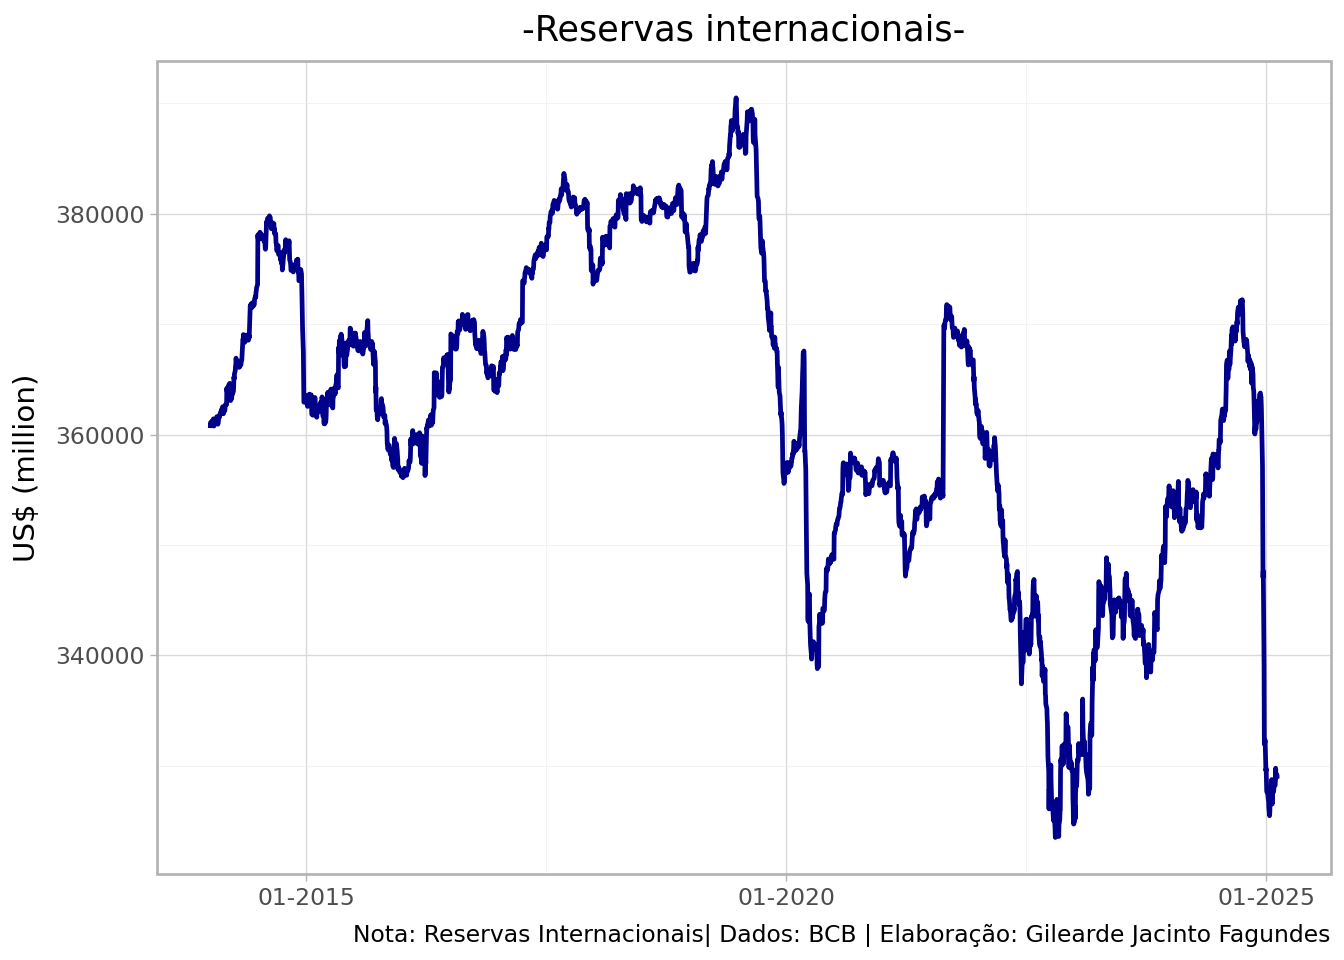
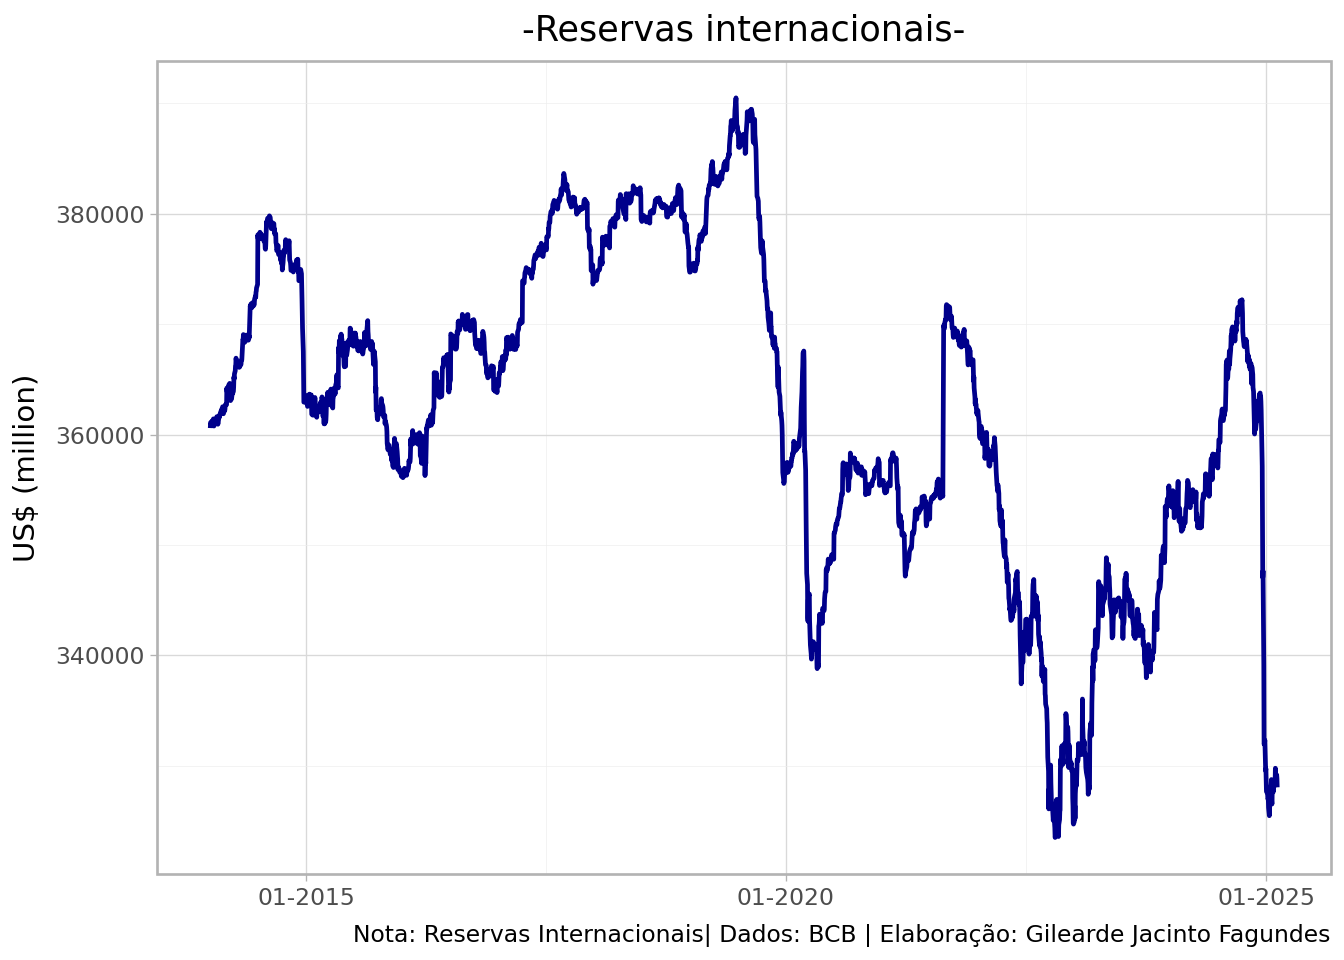
Atualização de relatorio e dashboard

diff --git a/relatorio/relatorio.html b/relatorio/relatorio.html
@@ -107,14 +107,14 @@ pre > code.sourceCode > span > a:first-child::before { text-decoration: underlin
 
 
 <p>Dados coletados da API do Banco Central do Brasil.</p>
-<div id="f28decbe" class="cell" data-execution_count="1">
+<div id="bf11c366" class="cell" data-execution_count="1">
 <div class="sourceCode cell-code" id="cb1"><pre class="sourceCode python code-with-copy"><code class="sourceCode python"><span id="cb1-1"><a href="#cb1-1" aria-hidden="true" tabindex="-1"></a><span class="co"># Import Librarys</span></span>
 <span id="cb1-2"><a href="#cb1-2" aria-hidden="true" tabindex="-1"></a><span class="im">from</span> bcb <span class="im">import</span> sgs</span>
 <span id="cb1-3"><a href="#cb1-3" aria-hidden="true" tabindex="-1"></a><span class="im">import</span> pandas <span class="im">as</span> pd</span>
 <span id="cb1-4"><a href="#cb1-4" aria-hidden="true" tabindex="-1"></a><span class="im">import</span> plotnine <span class="im">as</span> p9</span></code><button title="Copy to Clipboard" class="code-copy-button"><i class="bi"></i></button></pre></div>
 </div>
 <p>Utilização da library SGS/BCB:</p>
-<div id="5781ddcb" class="cell" data-execution_count="2">
+<div id="93dc852d" class="cell" data-execution_count="2">
 <div class="sourceCode cell-code" id="cb2"><pre class="sourceCode python code-with-copy"><code class="sourceCode python"><span id="cb2-1"><a href="#cb2-1" aria-hidden="true" tabindex="-1"></a><span class="co"># Collect data</span></span>
 <span id="cb2-2"><a href="#cb2-2" aria-hidden="true" tabindex="-1"></a>dados <span class="op">=</span> sgs.get(</span>
 <span id="cb2-3"><a href="#cb2-3" aria-hidden="true" tabindex="-1"></a>    codes<span class="op">=</span>{<span class="st">"reserva"</span>: <span class="dv">13621</span>},</span>
@@ -123,7 +123,7 @@ pre > code.sourceCode > span > a:first-child::before { text-decoration: underlin
 <span id="cb2-6"><a href="#cb2-6" aria-hidden="true" tabindex="-1"></a>)</span></code><button title="Copy to Clipboard" class="code-copy-button"><i class="bi"></i></button></pre></div>
 </div>
 <p>Os dados brutos obtidos no SGS/BCB são exibidos abaixo:</p>
-<div id="6a704ca5" class="cell" data-execution_count="3">
+<div id="32143449" class="cell" data-execution_count="3">
 <div class="sourceCode cell-code" id="cb3"><pre class="sourceCode python code-with-copy"><code class="sourceCode python"><span id="cb3-1"><a href="#cb3-1" aria-hidden="true" tabindex="-1"></a>dados</span></code><button title="Copy to Clipboard" class="code-copy-button"><i class="bi"></i></button></pre></div>
 <div class="cell-output cell-output-display" data-execution_count="3">
 <div>
@@ -166,37 +166,37 @@ pre > code.sourceCode > span > a:first-child::before { text-decoration: underlin
 <td>...</td>
 </tr>
 <tr class="odd">
-<td data-quarto-table-cell-role="th">2025-02-05</td>
-<td>329765</td>
-</tr>
-<tr class="even">
 <td data-quarto-table-cell-role="th">2025-02-06</td>
 <td>329258</td>
 </tr>
-<tr class="odd">
+<tr class="even">
 <td data-quarto-table-cell-role="th">2025-02-07</td>
 <td>328905</td>
 </tr>
-<tr class="even">
+<tr class="odd">
 <td data-quarto-table-cell-role="th">2025-02-10</td>
 <td>329160</td>
 </tr>
-<tr class="odd">
+<tr class="even">
 <td data-quarto-table-cell-role="th">2025-02-11</td>
 <td>328826</td>
+</tr>
+<tr class="odd">
+<td data-quarto-table-cell-role="th">2025-02-12</td>
+<td>328036</td>
 </tr>
 </tbody>
 </table>
 
-<p>2790 rows × 1 columns</p>
+<p>2791 rows × 1 columns</p>
 </div>
 </div>
 </div>
 <p>Valores e datas da maxima e minima das Reservas Internacionais Totais:</p>
-<div id="807b29b5" class="cell" data-execution_count="4">
+<div id="4e513174" class="cell" data-execution_count="4">
 <div class="sourceCode cell-code" id="cb4"><pre class="sourceCode python code-with-copy"><code class="sourceCode python"><span id="cb4-1"><a href="#cb4-1" aria-hidden="true" tabindex="-1"></a>dados <span class="op">=</span> dados.assign(data <span class="op">=</span> dados.index)</span></code><button title="Copy to Clipboard" class="code-copy-button"><i class="bi"></i></button></pre></div>
 </div>
-<div id="b795da89" class="cell" data-execution_count="5">
+<div id="4186c516" class="cell" data-execution_count="5">
 <div class="sourceCode cell-code" id="cb5"><pre class="sourceCode python code-with-copy"><code class="sourceCode python"><span id="cb5-1"><a href="#cb5-1" aria-hidden="true" tabindex="-1"></a>menor_valor <span class="op">=</span> dados.reserva.<span class="bu">min</span>() </span>
 <span id="cb5-2"><a href="#cb5-2" aria-hidden="true" tabindex="-1"></a>data_menor_valor <span class="op">=</span> dados.reserva.idxmin().date()</span>
 <span id="cb5-3"><a href="#cb5-3" aria-hidden="true" tabindex="-1"></a>maior_valor<span class="op">=</span>dados.reserva.<span class="bu">max</span>()</span>
@@ -208,7 +208,7 @@ pre > code.sourceCode > span > a:first-child::before { text-decoration: underlin
 </div>
 </div>
 <p>Gráfico de linha com a série das Reservas Internacionais Totais:</p>
-<div id="0e441fb9" class="cell" data-execution_count="6">
+<div id="fefcc56f" class="cell" data-execution_count="6">
 <div class="sourceCode cell-code" id="cb7"><pre class="sourceCode python code-with-copy"><code class="sourceCode python"><span id="cb7-1"><a href="#cb7-1" aria-hidden="true" tabindex="-1"></a><span class="co"># Line Graph</span></span>
 <span id="cb7-2"><a href="#cb7-2" aria-hidden="true" tabindex="-1"></a>chart<span class="op">=</span>p9.ggplot(data <span class="op">=</span> dados) <span class="op">+\</span></span>
 <span id="cb7-3"><a href="#cb7-3" aria-hidden="true" tabindex="-1"></a>  p9.aes(x <span class="op">=</span> <span class="st">"data"</span>, y <span class="op">=</span> <span class="st">"reserva"</span>) <span class="op">+\</span></span>
@@ -222,7 +222,7 @@ pre > code.sourceCode > span > a:first-child::before { text-decoration: underlin
 <span id="cb7-11"><a href="#cb7-11" aria-hidden="true" tabindex="-1"></a>    ) <span class="op">+\</span></span>
 <span id="cb7-12"><a href="#cb7-12" aria-hidden="true" tabindex="-1"></a>  p9.theme_light()</span></code><button title="Copy to Clipboard" class="code-copy-button"><i class="bi"></i></button></pre></div>
 </div>
-<div id="be0fa45c" class="cell" data-execution_count="7">
+<div id="e3de4cc5" class="cell" data-execution_count="7">
 <div class="sourceCode cell-code" id="cb8"><pre class="sourceCode python code-with-copy"><code class="sourceCode python"><span id="cb8-1"><a href="#cb8-1" aria-hidden="true" tabindex="-1"></a>chart</span></code><button title="Copy to Clipboard" class="code-copy-button"><i class="bi"></i></button></pre></div>
 <div class="cell-output cell-output-display">
 <div>
